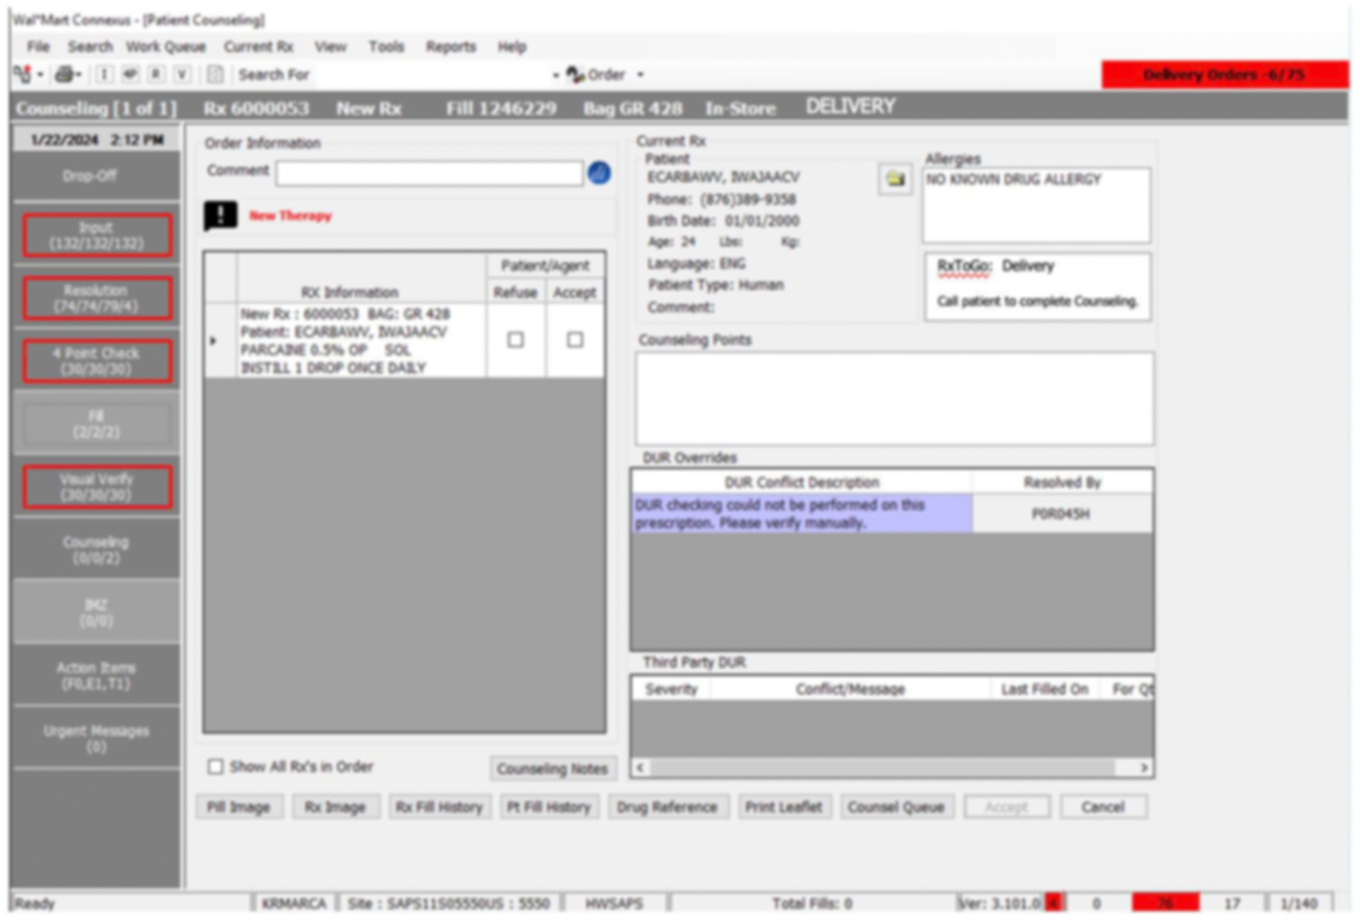
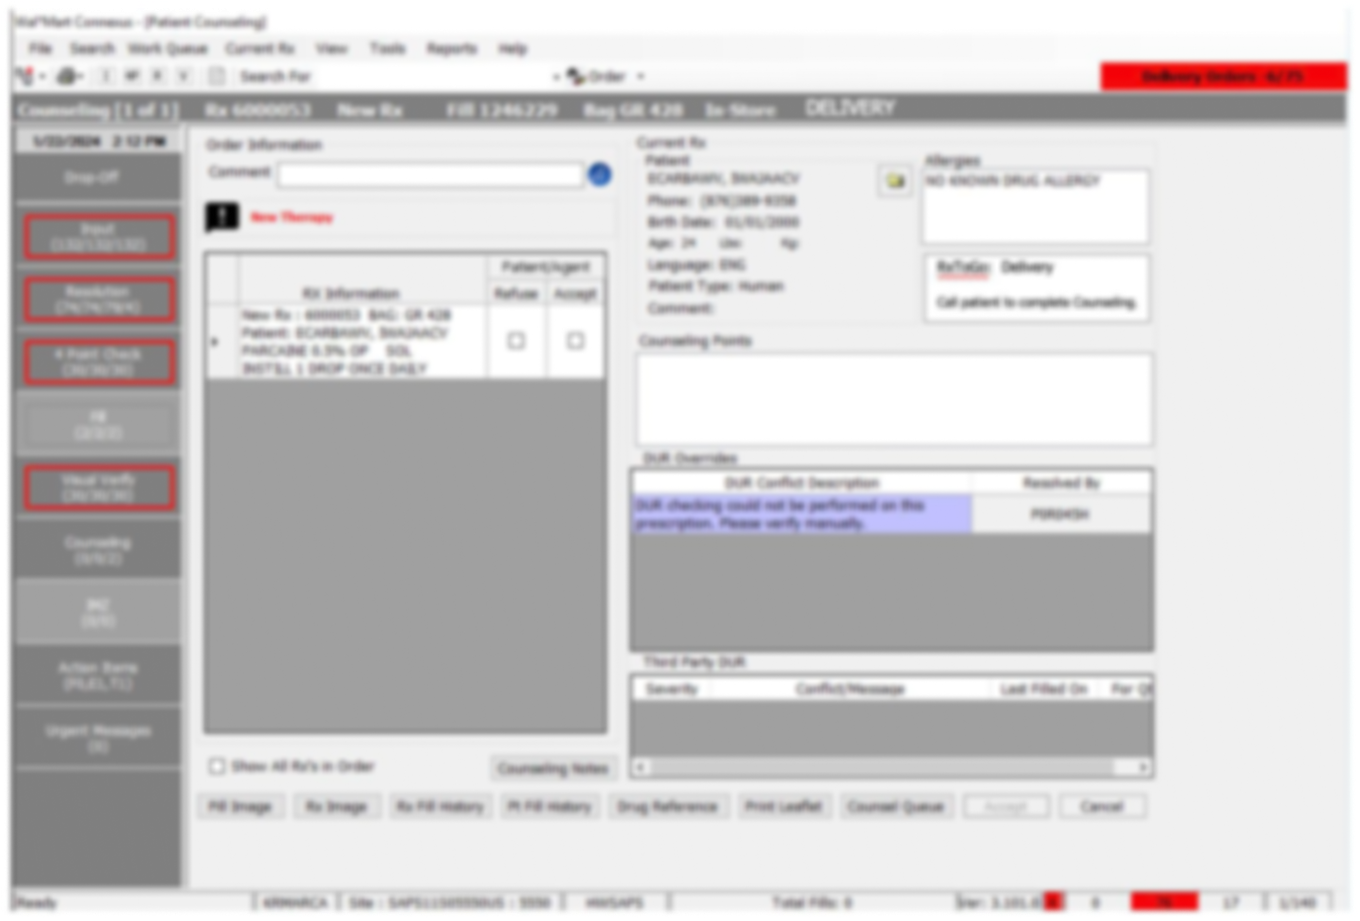
Update RxToGo Connexus image and add confidentiality note
Replace the Connexus screenshot with a new pharmacy counseling screen
and add a caption explaining the image is intentionally blurred due
to platform confidentiality.

diff --git a/styles.css b/styles.css
@@ -587,6 +587,7 @@ p{ font-size: var(--fs-body); font-weight:400; line-height:1.3; }
 .page-rxtogo .cs-tabs-group{ display:flex; align-items:center; gap:var(--sp-4); flex:0 0 auto; }
 .page-rxtogo .cs-tabs-img{ height:200px; width:auto; max-width:none; display:block; border-radius:0; }
 .page-rxtogo .cs-image--connexus .cs-image-caption{ margin-bottom: var(--sp-6); }
+.page-rxtogo .cs-connexus-note{ margin-top: var(--sp-4); margin-bottom:0; }
 .page-rxtogo .cs-connexus-frame{ display:flex; align-items:flex-start; gap: var(--sp-8); }
 .page-rxtogo .cs-connexus-frame img{ width:66%; }
 .page-rxtogo .cs-connexus-frame .cs-doc-pointer{ flex:0 1 auto; max-width:200px; }

diff --git a/rxtogo.html b/rxtogo.html
@@ -125,6 +125,7 @@
           <p>Entry point for Delivery Orders</p>
         </div>
       </div>
+      <p class="cs-image-caption cs-connexus-note">Image intentionally blurred, the nature of this platform is confidential. Please reach out for more details</p>
     </div>
   </section>
 
